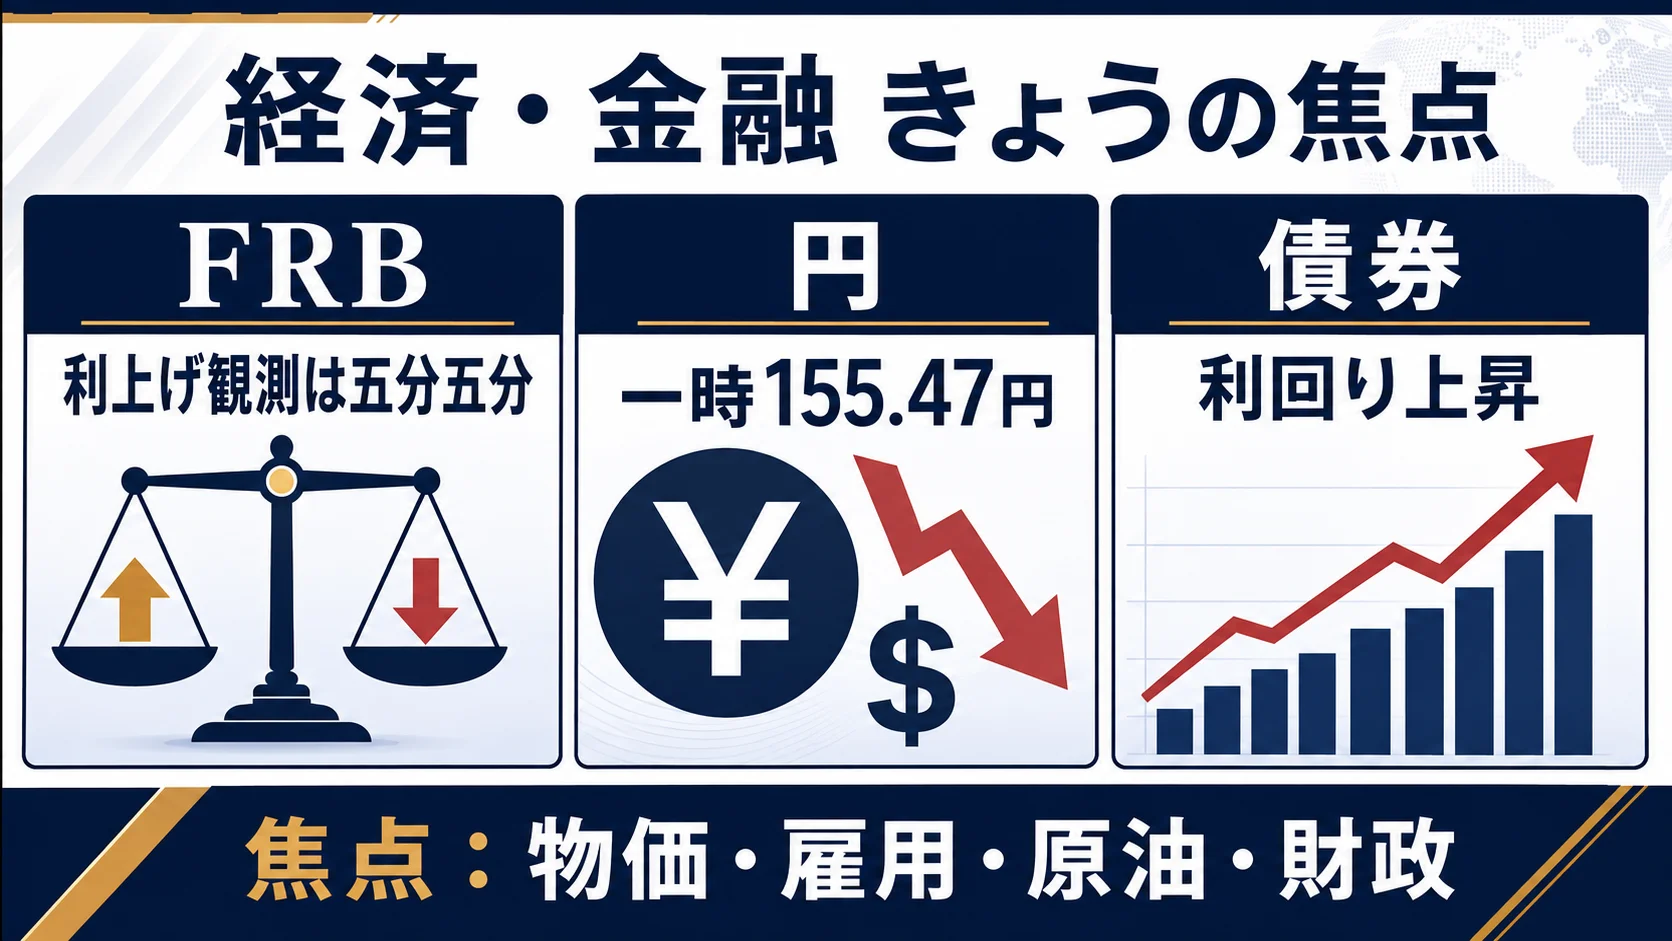
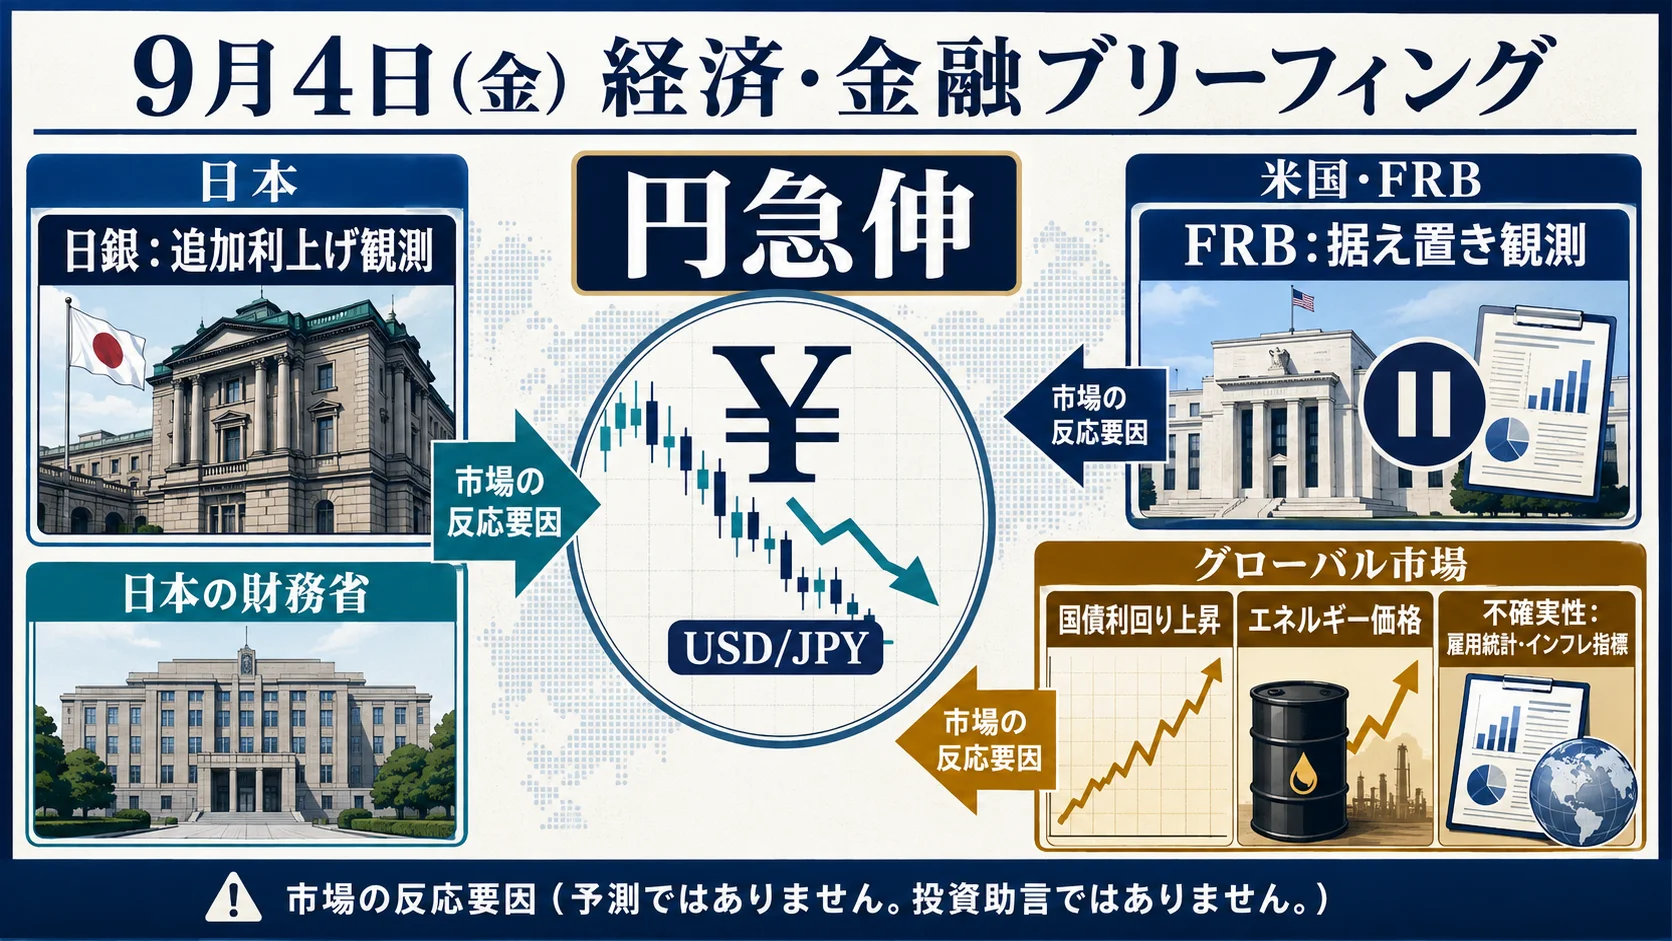
deploy: update site

diff --git a/news/2026-09-04/Economy_Finance/index.html b/news/2026-09-04/Economy_Finance/index.html
@@ -1,41 +1,47 @@
-<!doctype html><html lang="ja"><head><meta charset="utf-8"><meta name="viewport" content="width=device-width,initial-scale=1"><title>2026-09-04_Economy_Finance | EBS</title><meta name="description" content="Evidence Based Slopedia"><meta property="og:title" content="2026-09-04_Economy_Finance"><meta property="og:type" content="website"><link rel="icon" href="/Evidence-Based-Slopedia-Pages/assets/favicon.svg"><link rel="stylesheet" href="/Evidence-Based-Slopedia-Pages/assets/ebs.css"><style>.card{container-type:inline-size}.card-media{position:relative}.card-media .hero,.card-media .thumbnail{display:block;width:100%;aspect-ratio:16/9;object-fit:cover;object-position:center}.card-date{position:absolute;top:.45rem;left:.45rem;padding:.15rem .4rem;border-radius:.25rem;background:rgba(0,0,0,.72);color:#fff;font:600 .72rem ui-sans-serif,sans-serif;line-height:1.2}.card-topic{font-size:.78rem;line-height:1.2;white-space:nowrap;overflow:hidden;text-overflow:ellipsis}.card h2{font-size:clamp(.78rem,8cqw,1.2rem);line-height:1.3;display:-webkit-box;-webkit-line-clamp:3;-webkit-box-orient:vertical;overflow:hidden}.card h2 a{overflow-wrap:anywhere;word-break:break-word}@media(max-width:560px){.card h2{-webkit-line-clamp:2;max-height:2.6em}.card>div{overflow:hidden}}</style></head><body><a class="skip-link" href="#content">本文へ移動</a><header class="site-header"><a class="brand" href="/Evidence-Based-Slopedia-Pages/">EBS</a><nav aria-label="主なナビゲーション"><a href="/Evidence-Based-Slopedia-Pages/articles/">Articles</a><a href="/Evidence-Based-Slopedia-Pages/news/">News</a><a href="/Evidence-Based-Slopedia-Pages/forecast/">Forecast</a><a href="/Evidence-Based-Slopedia-Pages/topics/">Topics</a><a href="/Evidence-Based-Slopedia-Pages/recent/">Recent</a><a href="/Evidence-Based-Slopedia-Pages/about/">About</a><a href="/Evidence-Based-Slopedia-Pages/search/">Search</a></nav></header><div id="content"><main><nav class="breadcrumb"><a href="/Evidence-Based-Slopedia-Pages/news/">News</a> / <a href="/Evidence-Based-Slopedia-Pages/news/2026-09-04/">2026-09-04</a></nav><article><p class="kicker">Economy_Finance</p><h1>2026-09-04_Economy_Finance</h1><p class="metadata">2026-09-04</p><section class="summary-card"><h2>要点</h2><p>2026-09-04 02 Economy Finance Daily Briefing</p></section><div class="content"><p><img src="/Evidence-Based-Slopedia-Pages/assets/50_Assets/Infographics/Daily/2026-09-04_economy-finance.webp" alt="2026-09-04_economy-finance"></p>
-<h1>2026-09-04 02_Economy_Finance Daily Briefing</h1>
-<h2 id="h-読むべき要点">読むべき要点</h2>
-<p>9月3日から4日（日本時間）の焦点は、米国の金融政策見通しの揺れが為替に波及し、同時にエネルギー高と財政懸念が債券市場の金利を押し上げていることです。短期的な相場材料と、物価・財政という中期的な材料を分けて読む必要があります。[1][2][3]</p>
-<h2 id="h-主要ニュース">主要ニュース</h2>
-<h3 id="h-1-frb-9月会合の利上げ観測はデータ次第">1. FRB：9月会合の利上げ観測はデータ次第</h3>
-<p>FRBのクリストファー・ウォラー理事は9月3日の発言で、物価改善が続けば次回会合での据え置きを支持し得る一方、改善が一時的なら利上げに前向きになり得るとの立場を示しました。ニューヨーク連銀のジョン・ウィリアムズ総裁も、追加利上げが必要かは経済指標を見極める必要があると述べています。[1] 市場では9月16日終了の会合の利上げ確率が、前日までの利上げ優勢から五分五分に近づいたと報じられました。[2]</p>
-<h3 id="h-2-円-対ドルで一時155-47円まで上昇">2. 円：対ドルで一時155.47円まで上昇</h3>
-<p>ニューヨーク外国為替市場で円は対ドルで一時2.08％上昇し、155.47円を付けました。報道では、日銀の9月17〜18日会合で追加利上げが従来予想より大きくなるとの見方が織り込まれたこと、またウォラー理事の据え置き示唆がドル売りを促したことが背景として挙げられています。[3] 同報道は、日銀当座預金データから9月2日の財務省によるドル売り・円買い介入の証拠は確認されなかったとしています。[3]</p>
-<h3 id="h-3-債券-原油高と政府債務懸念が利回りを押し上げ">3. 債券：原油高と政府債務懸念が利回りを押し上げ</h3>
-<p>Reutersは、エネルギー価格上昇によるインフレ懸念と、政府債務への不安がアジア・欧州の国債売りを重ねていると報じました。日本の10年国債利回りは30年ぶりに3％を上回り、ドイツ10年債は2011年以来、英国10年債は2008年以来の高水準となったとされています。[4] 米10年国債利回りは4.7961％、2年債利回りは4.3897％近辺でした。[4] 高い利回りは政府・企業の調達コストを高め、将来利益への期待で評価される株式には逆風となり得ますが、Reutersは今回の債券売りを「秩序立った」ものとする市場関係者の見方も紹介しています。[4]</p>
-<h2 id="h-背景と意味">背景と意味</h2>
-<p>今回の市場変動は、単一の政策発表だけでなく、物価、雇用、原油、財政の四つの変数が同時に評価されている点に特徴があります。米国では9月会合前に雇用統計とインフレ指標が予定され、FRBの判断材料が残っています。[1][2] 日本では円高が輸入物価を抑える可能性がある一方、輸出企業の円換算収益には逆風となり得ます。債券利回りの上昇は金融機関の運用環境や住宅・企業融資の金利にも波及し得ますが、波及の大きさは各国の財政運営と実際のインフレ動向に左右されます。[4]</p>
-<h2 id="h-何がまだ確定していないか">何がまだ確定していないか</h2>
+<!doctype html><html lang="ja"><head><meta charset="utf-8"><meta name="viewport" content="width=device-width,initial-scale=1"><title>2026-09-04_Economy_Finance | EBS</title><meta name="description" content="Evidence Based Slopedia"><meta property="og:title" content="2026-09-04_Economy_Finance"><meta property="og:type" content="website"><link rel="icon" href="/Evidence-Based-Slopedia-Pages/assets/favicon.svg"><link rel="stylesheet" href="/Evidence-Based-Slopedia-Pages/assets/ebs.css"><style>.card{container-type:inline-size}.card-media{position:relative}.card-media .hero,.card-media .thumbnail{display:block;width:100%;aspect-ratio:16/9;object-fit:cover;object-position:center}.card-date{position:absolute;top:.45rem;left:.45rem;padding:.15rem .4rem;border-radius:.25rem;background:rgba(0,0,0,.72);color:#fff;font:600 .72rem ui-sans-serif,sans-serif;line-height:1.2}.card-topic{font-size:.78rem;line-height:1.2;white-space:nowrap;overflow:hidden;text-overflow:ellipsis}.card h2{font-size:clamp(.78rem,8cqw,1.2rem);line-height:1.3;display:-webkit-box;-webkit-line-clamp:3;-webkit-box-orient:vertical;overflow:hidden}.card h2 a{overflow-wrap:anywhere;word-break:break-word}@media(max-width:560px){.card h2{-webkit-line-clamp:2;max-height:2.6em}.card>div{overflow:hidden}}</style></head><body><a class="skip-link" href="#content">本文へ移動</a><header class="site-header"><a class="brand" href="/Evidence-Based-Slopedia-Pages/">EBS</a><nav aria-label="主なナビゲーション"><a href="/Evidence-Based-Slopedia-Pages/articles/">Articles</a><a href="/Evidence-Based-Slopedia-Pages/news/">News</a><a href="/Evidence-Based-Slopedia-Pages/forecast/">Forecast</a><a href="/Evidence-Based-Slopedia-Pages/topics/">Topics</a><a href="/Evidence-Based-Slopedia-Pages/recent/">Recent</a><a href="/Evidence-Based-Slopedia-Pages/about/">About</a><a href="/Evidence-Based-Slopedia-Pages/search/">Search</a></nav></header><div id="content"><main><nav class="breadcrumb"><a href="/Evidence-Based-Slopedia-Pages/news/">News</a> / <a href="/Evidence-Based-Slopedia-Pages/news/2026-09-04/">2026-09-04</a></nav><article><p class="kicker">Economy_Finance</p><h1>2026-09-04_Economy_Finance</h1><p class="metadata">2026-09-04</p><section class="summary-card"><h2>要点</h2><p>図：円・日米金融政策観測・世界債券をめぐる9月3〜4日の材料整理（ 1 2 3 4 ）。</p></section><div class="content"><p><img src="/Evidence-Based-Slopedia-Pages/assets/50_Assets/Infographics/Daily/2026-09-04_economy-finance.webp" alt="2026-09-04_economy-finance"></p>
+<p>図：円・日米金融政策観測・世界債券をめぐる9月3〜4日の材料整理（[1][2][3][4]）。</p>
+<h1>2026-09-04 Economy Finance Daily Briefing</h1>
+<h2 id="h-今日読むべき要点">今日読むべき要点</h2>
 <ul>
-<li>FRBが9月会合で利上げするか据え置くかは、会合前に公表される物価・雇用データ次第です。現時点の市場確率は政策決定ではありません。[1][2]</li>
-<li>円高の主因が日銀の政策期待、米金利見通し、ポジション調整のどれにどの程度帰属するかは確定していません。[3]</li>
-<li>エネルギー高が一時的な供給ショックで終わるか、基調的なインフレと長期金利に定着するかは未解決です。[4]</li>
-<li>日本銀行大阪支店は9月4日15時に「関西金融経済動向」などの公表を予定していました。本稿は公表前の情報を結果として扱っていません。[5]</li>
+<li>9月3日から4日未明にかけ、円は対ドルで一時155円台前半まで急伸した。日銀の追加利上げ観測と、FRBの利上げ観測が後退したことが同時にドル／円を動かした構図である。[2][3]</li>
+<li>日本の金融政策をめぐる市場の思惑は、日銀審議委員の発言と9月17〜18日の決定会合を軸に強まっている。ただし、利上げ幅・時期は決定済みではない。[2]</li>
+<li>世界の債券市場では、エネルギー価格上昇、インフレ懸念、公的債務への懸念が国債利回りを押し上げる材料になっている。[4]</li>
 </ul>
-<h2 id="h-読むべき分析">読むべき分析</h2>
+<h2 id="h-重要ニュース">重要ニュース</h2>
+<h3 id="h-1-円が一時155円台前半へ急伸">1. 円が一時155円台前半へ急伸</h3>
+<p>Reuters配信記事によると、ニューヨーク外為市場で円は対ドルで一時2.08％上昇し、155.47円を付けた。終値は155.79〜155.84円だった。[2] 日銀の資金需給データから、9月2日に財務省がドル売り・円買い介入を行った証拠は確認されなかったと報じられており、今回の上昇は介入よりも金融政策観測を中心に説明されている。[2]</p>
+<p>財務官は3日、為替相場について「満足も安心もしていない」とし、引き続き臨戦態勢だと説明したと報じられた。[2][3] 日銀の公表ページでは、9月3日分を含む日次の外国為替市況が掲載されている。[1]</p>
+<h3 id="h-2-日銀の追加利上げ観測とfrbの据え置き観測">2. 日銀の追加利上げ観測とFRBの据え置き観測</h3>
+<p>日銀の高田審議委員は、情勢次第では利上げ間隔や幅が従来どおりとは限らない趣旨の発言をしたと報じられた。[2] これを受け、市場では9月17〜18日の会合で0.25％ポイントの利上げが決まる確率をおおむね75％程度織り込む動きが紹介されているが、これは市場の確率評価であり、日銀の決定ではない。[2]</p>
+<p>一方、FRBのウォラー理事は、今後の指標でインフレ圧力の鈍化が確認できれば、9月15〜16日のFOMCで政策金利を据え置く考えを示した。ただし、インフレ指標が予想以上に強ければ利上げを検討する可能性も排除していない。[2] 発言後、報道時点で市場が織り込むFRB利上げ確率は59％から48％へ低下した。[2]</p>
+<h3 id="h-3-国債利回り-エネルギー価格-財政懸念の連鎖">3. 国債利回り・エネルギー価格・財政懸念の連鎖</h3>
+<p>Reutersは9月2日のアジア・欧州取引について、エネルギー価格上昇がインフレ懸念を強め、公的債務への懸念と重なって国債利回りを押し上げたと報じた。[4] 同記事では、日本の10年国債利回りが30年ぶりに3％を上回り、米10年国債利回りは4.7961％だったとされる。[4]</p>
+<p>金利上昇は住宅ローンなどの借入コストや政府の利払い負担に波及しうる一方、株式のバリュエーションにも影響する。これは市場構造上の一般的な波及経路であり、個別資産の将来価格を予測するものではない。[4]</p>
+<h2 id="h-背景と文脈">背景と文脈</h2>
+<p>今回の市場反応は、単一の材料ではなく、（1）日銀の正常化観測、（2）米国のインフレと雇用指標を待つFRB、（3）エネルギー価格と財政の持続可能性をめぐる世界債券市場、が重なったものと整理できる。[2][4] 日本の為替データは市場参加者からの情報に基づき、訂正される可能性があるため、日銀自身も利用上の注意を示している。[1]</p>
+<h2 id="h-何がまだ不確かか">何がまだ不確かか</h2>
+<ul>
+<li>日銀が実際に利上げするか、利上げ幅がどうなるかは、決定会合と今後の経済指標を待つ必要がある。[2]</li>
+<li>FRBの判断は、9月4日に予定される米雇用統計や、その後のインフレ指標によって変わりうる。[2]</li>
+<li>円高が一時的なポジション調整なのか、日米金利差の見通しの変化を伴う持続的な動きなのかは、追加データなしには確定できない。[2]</li>
+<li>国債利回り上昇がエネルギー要因、財政要因、金融政策要因のどれに主導されるかは市場ごとに異なる。[4]</li>
+</ul>
+<h2 id="h-読む順番">読む順番</h2>
 <ol>
-<li>FRBの公式発表一覧で、9月3日掲載のウォラー理事講演と9月2日公表のBeige Bookを確認する。[1]</li>
-<li>為替の値動きは、日銀の政策期待と米国の物価・雇用データを分けて追う。[2][3]</li>
-<li>債券市場では、短期金利（政策見通し）と長期金利（インフレ・財政・需給）を区別する。[4]</li>
+<li>日銀の外国為替市況で公式公表データの位置づけを確認する。[1]</li>
+<li>円急伸と日米中銀発言の時系列をReuters配信記事で確認する。[2]</li>
+<li>国内報道で財務官発言と日本の長期金利に関する反応を補う。[3]</li>
+<li>世界の債券・原油・財政懸念の連鎖をReutersの市場解説で読む。[4]</li>
 </ol>
 <h2 id="h-参考ソース">参考ソース</h2>
 <ol>
-<li>Federal Reserve Board, “Recent Postings” （9月3日掲載のWaller講演、Beige Book等）, <a href="https://www.federalreserve.gov/recentpostings.htm">https://www.federalreserve.gov/recentpostings.htm</a> （Accessed: 2026-09-04）</li>
-<li>Axios, “Interest rate hikes aren't a sure thing, some Federal Reserve officials say” (2026-09-03), <a href="https://www.axios.com/2026/09/03/rates-waller-jobs-inflation-policy">https://www.axios.com/2026/09/03/rates-waller-jobs-inflation-policy</a> （Accessed: 2026-09-04）</li>
-<li>Reuters／ニューズウィーク日本版, 「ＮＹ外為市場＝円急伸、一時155円台前半　ＦＲＢ理事発言でドル下げ幅拡大」 (2026-09-04), <a href="https://www.newsweekjapan.jp/articles/-/333160">https://www.newsweekjapan.jp/articles/-/333160</a> （Accessed: 2026-09-04）</li>
-<li>Reuters／Investing.com, “Bond selloff deepens as oil prices and public debt fears jolt markets” (2026-09-03), <a href="https://www.investing.com/news/economy-news/bond-selloff-deepens-as-oil-prices-and-public-debt-fears-jolt-markets-4888104">https://www.investing.com/news/economy-news/bond-selloff-deepens-as-oil-prices-and-public-debt-fears-jolt-markets-4888104</a> （Accessed: 2026-09-04）</li>
-<li>日本銀行大阪支店, 「公表予定」, <a href="https://www3.boj.or.jp/osaka/statistics/release.html">https://www3.boj.or.jp/osaka/statistics/release.html</a> （Accessed: 2026-09-04）</li>
+<li>日本銀行「外国為替市況（日次）」, <a href="https://www.boj.or.jp/statistics/market/forex/fxdaily/index.htm">https://www.boj.or.jp/statistics/market/forex/fxdaily/index.htm</a> （Accessed: 2026-09-04 JST）</li>
+<li>Reuters配信（ニューズウィーク日本版）「NY外為市場＝円急伸、一時155円台前半　FRB理事発言でドル下げ幅拡大」, <a href="https://www.newsweekjapan.jp/articles/-/333160">https://www.newsweekjapan.jp/articles/-/333160</a> （Accessed: 2026-09-04 JST）</li>
+<li>テレ朝NEWS「経済ニュース一覧」, <a href="https://news.tv-asahi.co.jp/news_economy/">https://news.tv-asahi.co.jp/news_economy/</a> （Accessed: 2026-09-04 JST）</li>
+<li>Reuters配信（Investing.com）“Bond selloff deepens as oil prices and public debt fears jolt markets”, <a href="https://www.investing.com/news/economy-news/bond-selloff-deepens-as-oil-prices-and-public-debt-fears-jolt-markets-4888104">https://www.investing.com/news/economy-news/bond-selloff-deepens-as-oil-prices-and-public-debt-fears-jolt-markets-4888104</a> （Accessed: 2026-09-04 JST）</li>
 </ol>
 <h2 id="h-更新履歴">更新履歴</h2>
 <ul>
-<li>2026-09-04: 初版作成。2026-09-03〜04（JST）のライブ調査結果、画像、引用監査を反映。</li>
+<li>2026-09-04: 初版作成。2026-09-03〜09-04 JSTのライブソースを確認し、引用・不確実性・日本語インフォグラフィックを追加。</li>
 </ul>
-<h2 id="h-更新日付">更新日付</h2>
-<p>2026-09-04</p>
 </div></article></main></div><footer>Evidence Based Slopedia</footer></body></html>
